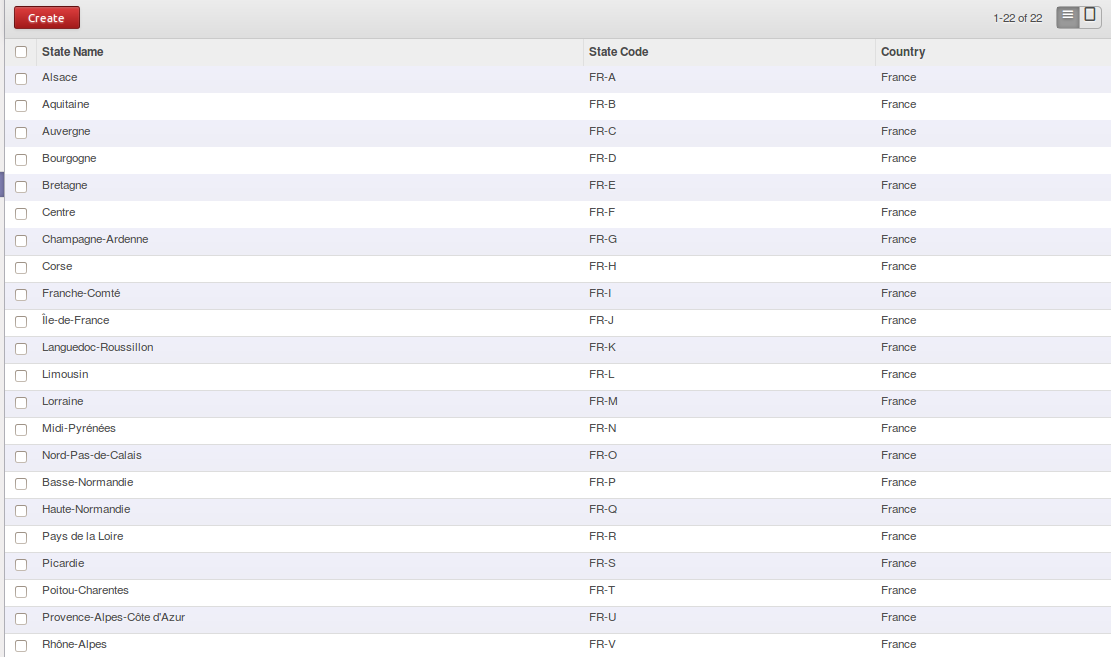
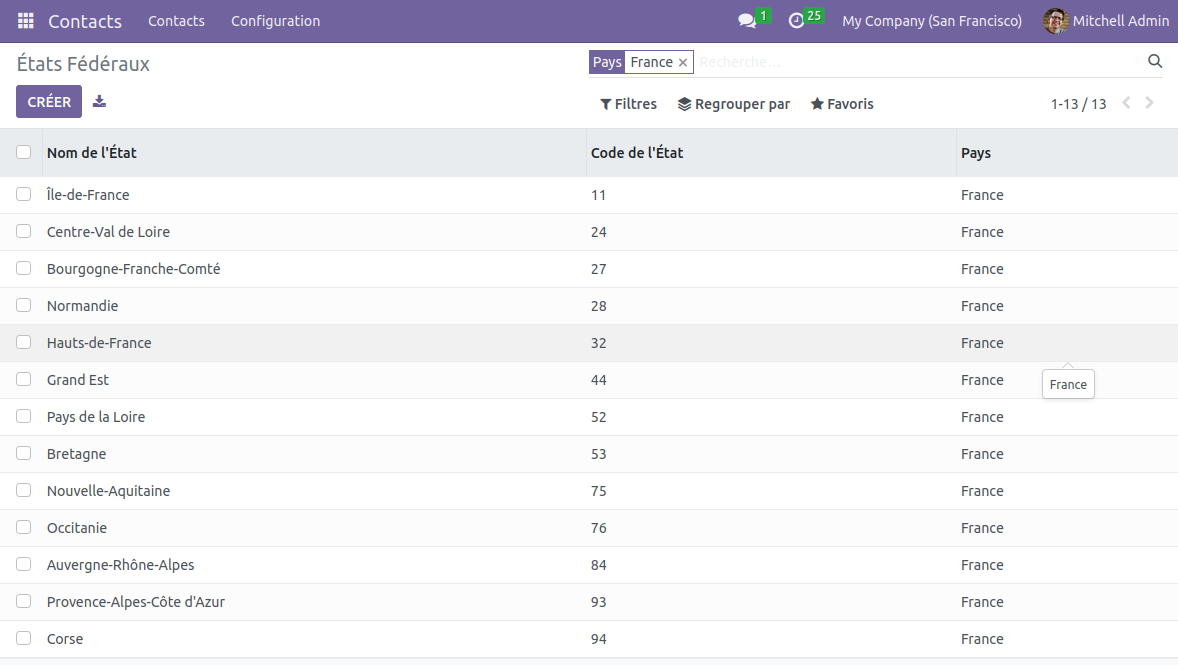
[MIG] l10n_fr_state to v16
Re-write pre-init hook to mutualize the code with l10n_fr_department_oversea and avoid hard-coding XMLIDs in the code

diff --git a/l10n_fr_state/pre_init_hook.py b/l10n_fr_state/pre_init_hook.py
@@ -1,50 +1,62 @@
-# Copyright 2017-2021 Akretion France
+# Copyright 2017-2022 Akretion France
 # @author: Alexis de Lattre <alexis.delattre@akretion.com>
 # License AGPL-3.0 or later (http://www.gnu.org/licenses/agpl).
 
-from odoo import SUPERUSER_ID, api
+import logging
 
-fr_states = {
-    44: "res_country_state_alsace",
-    75: "res_country_state_aquitaine",
-    84: "res_country_state_auvergne",
-    27: "res_country_state_bourgogne",
-    53: "res_country_state_bretagne",
-    24: "res_country_state_centre",
-    94: "res_country_state_corse",
-    11: "res_country_state_iledefrance",
-    76: "res_country_state_languedocroussillon",
-    32: "res_country_state_nordpasdecalais",
-    28: "res_country_state_bassenormandie",
-    52: "res_country_state_paysdelaloire",
-    93: "res_country_state_provencealpescotedazur",
-}
+from lxml import etree
+
+from odoo import SUPERUSER_ID, api
+from odoo.tools import file_open
+
+logger = logging.getLogger(__name__)
 
 # This code is designed to avoid a problem in the following scenario:
 # On a new database, the administrator executes these steps in this order:
-# 1) installs base_location_geonames_import and run the geonames import wizard
+# 1) installs base_address_extended_geonames_import and run the geonames import wizard
 #  for France
 # -> it creates all the French regions (without xmlid)
-# 2) installs l10n_fr_state (directly or when installing the module
-#    for DEB l10n_fr_intrastat_product)
+# 2) installs l10n_fr_state
 # -> it tries to create the French regions, but it fails due to the unicity
 #  constraint unique(country_id, code) of res.country.state.
 
 
 def create_fr_state_xmlid(cr):
+    generic_create_state_xmlid(cr, "l10n_fr_state", "data/res_country_state.xml")
+
+
+def generic_create_state_xmlid(cr, module_name, data_file):
+    """This method is also used by l10n_fr_state and l10n_fr_department_oversea"""
+    f = file_open("%s/%s" % (module_name, data_file), "rb")
+    xml_root = etree.parse(f)
+    data = {}  # key = xmlid, value = {"code": "GP", "country_id": "base.gp"}
+    for record in xml_root.xpath("//record"):
+        xmlid = record.attrib["id"]
+        data[xmlid] = {}
+        for xfield in record.xpath("field"):
+            xfield_dict = xfield.attrib
+            data[xmlid][xfield_dict["name"]] = xfield_dict.get("ref") or xfield.text
+    logger.debug("generic_create_state_xmlid data=%s", data)
     env = api.Environment(cr, SUPERUSER_ID, {})
-    fr_country = env.ref("base.fr")
-    for region_code, xmlid in fr_states.items():
-        regions = env["res.country.state"].search(
-            [("code", "=", region_code), ("country_id", "=", fr_country.id)]
+    for xmlid, state_data in data.items():
+        country_id = env.ref(state_data["country_id"]).id
+        state = env["res.country.state"].search(
+            [("code", "=", state_data["code"]), ("country_id", "=", country_id)],
+            limit=1,
         )
-        if regions:
+        if state:
             env["ir.model.data"].create(
                 {
                     "name": xmlid,
-                    "res_id": regions[0].id,
-                    "module": "l10n_fr_state",
+                    "res_id": state.id,
+                    "module": module_name,
                     "model": "res.country.state",
                 }
             )
-    return
+            logger.info(
+                "XMLID %s.%s created for state %s code %s",
+                module_name,
+                xmlid,
+                state.name,
+                state.code,
+            )

diff --git a/l10n_fr_state/__manifest__.py b/l10n_fr_state/__manifest__.py
@@ -1,12 +1,12 @@
-# Copyright 2013-2021 GRAP (Sylvain LE GAL https://twitter.com/legalsylvain)
-# Copyright 2015-2021 Akretion France
+# Copyright 2013-2022 GRAP (Sylvain LE GAL https://twitter.com/legalsylvain)
+# Copyright 2015-2022 Akretion France
 # @author: Alexis de Lattre <alexis.delattre@akretion.com>
 # License AGPL-3.0 or later (http://www.gnu.org/licenses/agpl).
 
 {
     "name": "French States (Régions)",
     "summary": "Populate Database with French States (Régions)",
-    "version": "15.0.1.0.0",
+    "version": "16.0.1.0.0",
     "category": "French Localization",
     "author": "GRAP, "
     "Akretion, "
